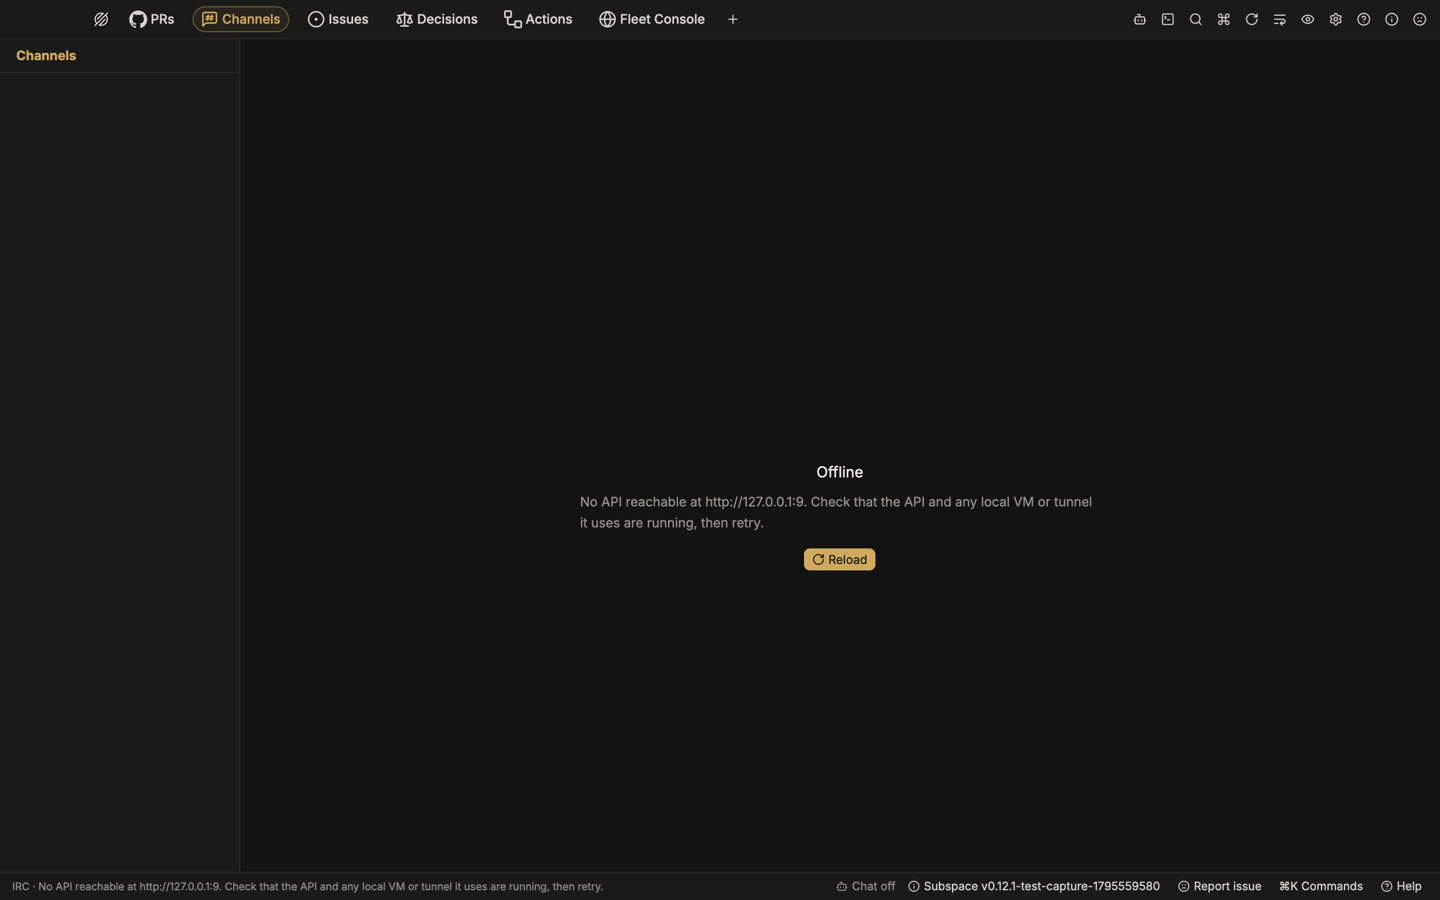
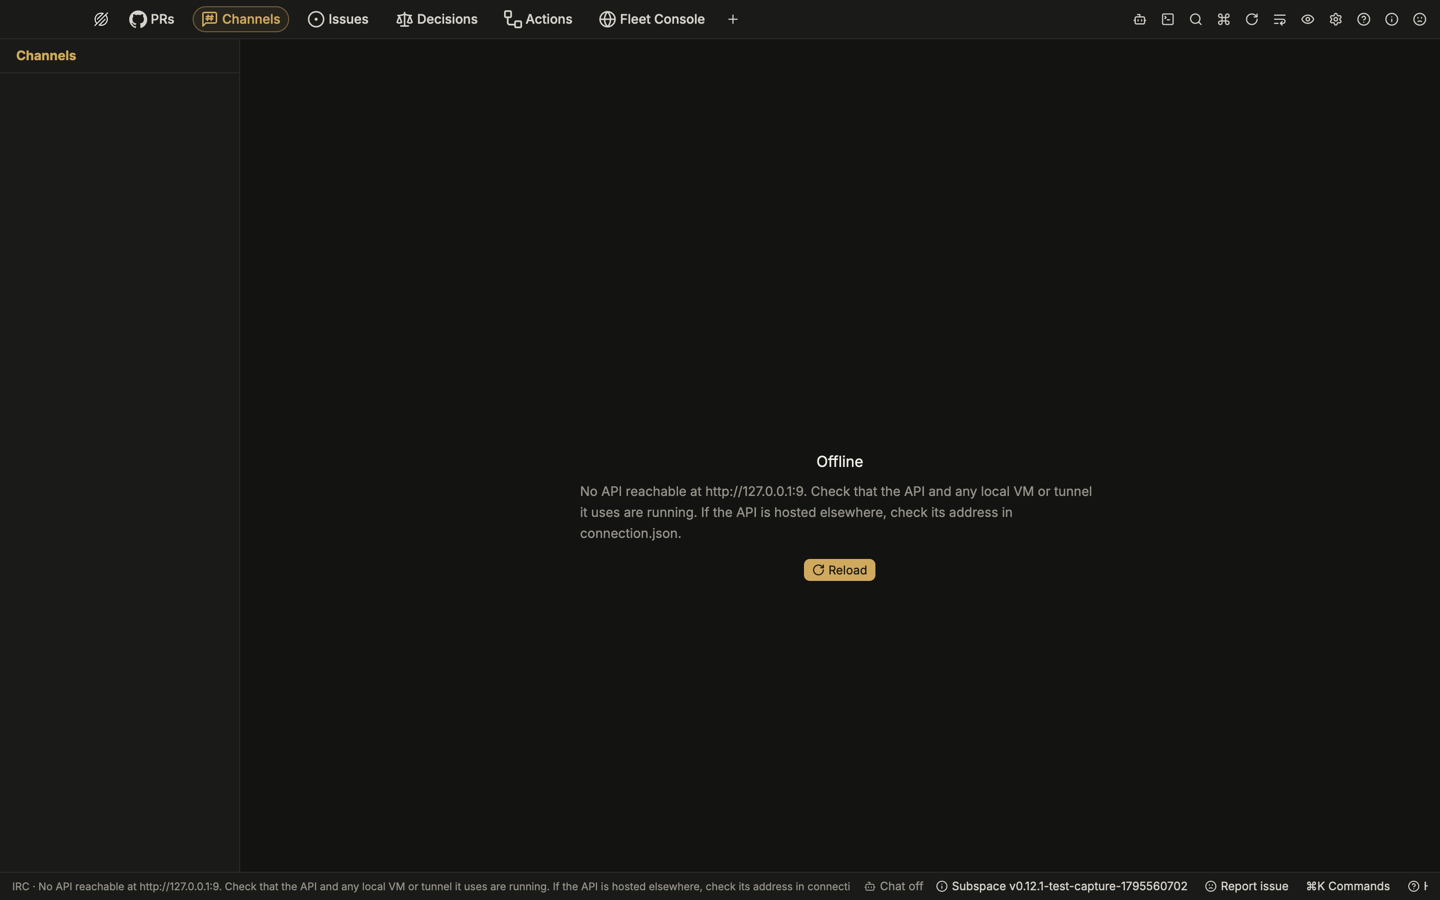
fix(desktop): preserve direct IRC addressing and recovery hints

Changed region(s): [[0.4062, 0.4978, 0.75, 0.6533], [0.375, 0.9644, 1.0, 0.9956]]

diff --git a/subspace-desktop/web-spaces/fleet-console/src/connection.js b/subspace-desktop/web-spaces/fleet-console/src/connection.js
@@ -167,13 +167,13 @@ export function connectionHelp(endpoint) {
   } catch {
     host = "";
   }
-  if (host === "localhost" || host === "[::1]" || /^127(?:\.\d+){3}$/.test(host)) {
+  if (host === "localhost" || host === "[::1]" || /^127(?:\.\d+){3}$/.test(host) || /^\[::ffff:7f[\da-f]{2}:[\da-f]{1,4}\]$/.test(host)) {
     return "Check that Stargate and any local VM or tunnel it uses are running.";
   }
   return "Check your network connection and connect to your organisation's private network if required. If you use Cloudflare One (WARP), refresh your Access session and complete any private-app sign-in.";
 }
 
-const CORS_HELP = " If the address opens in your browser but this Space still cannot connect, check Stargate's api.corsOrigins.";
+export const CORS_HELP = " If the address opens in your browser but this Space still cannot connect, check Stargate's api.corsOrigins.";
 
 /**
  * What the window says about a connection: a short pill label, its tone, and
@@ -198,7 +198,7 @@ export function describeConnection(state, { endpoint = "", now = 0 } = {}) {
         tone: "yellow",
         banner: {
           title: "Lost the event stream",
-          body: `The map shows the last data received. ${state.httpStatus ? `Stargate answered ${state.httpStatus}.` : connectionHelp(endpoint)}${retryText}`,
+          body: `The connection to ${where} dropped. The map shows the last data received. ${state.httpStatus ? `Stargate answered ${state.httpStatus}. Check the fleet VM and Stargate's logs.` : connectionHelp(endpoint)}${retryText}`,
           retry: true,
         },
       };

diff --git a/subspace-desktop/web-spaces/fleet-console/src/fleet-panel.js b/subspace-desktop/web-spaces/fleet-console/src/fleet-panel.js
@@ -4,7 +4,7 @@
 
 import { normalizeEndpoint } from "./api.js";
 import { cleanName } from "./fleet-store.js";
-import { connectionHelp, describeConnection, tokenProblem } from "./connection.js";
+import { CORS_HELP, connectionHelp, describeConnection, tokenProblem } from "./connection.js";
 import { fleetStatus } from "./scene/landscape.js";
 import { esc } from "./html.js";
 
@@ -44,10 +44,11 @@ export function describeTestError(error, endpoint) {
   if (status === 403) return "Stargate refused this network (403). Reach it over your private network: Tailscale, a Cloudflare Tunnel, or an SSH tunnel.";
   if (status === 404) return "No Fleet API at this address (404). Check the address and that Stargate's api block is enabled.";
   if (Number.isInteger(status)) return `Stargate answered ${status}. Check the fleet VM and Stargate's logs.`;
-  const problem = error?.name === "TimeoutError" || error?.name === "AbortError"
-    ? "Stargate did not answer within ten seconds."
-    : "Cannot reach this address.";
-  return `${problem} ${connectionHelp(endpoint)}`;
+  const help = connectionHelp(endpoint);
+  if (error?.name === "TimeoutError" || error?.name === "AbortError") {
+    return `Stargate did not answer within ten seconds. ${help}`;
+  }
+  return `Cannot reach this address. ${help}${CORS_HELP}`;
 }
 
 /** Words for a successful test connection. */

diff --git a/subspace-desktop/web-spaces/fleet-console/test/fleets.test.js b/subspace-desktop/web-spaces/fleet-console/test/fleets.test.js
@@ -216,7 +216,10 @@ test("test-connection words and the reasons adding is blocked", () => {
   assert.match(local, /ten seconds.*local VM or tunnel/);
   assert.doesNotMatch(local, /Cloudflare/);
   const remote = describeTestError(new TypeError("Load failed"), "https://fleet.example.com");
-  assert.match(remote, /private network.*refresh your Access session.*private-app sign-in/);
+  assert.match(remote, /private network.*refresh your Access session.*private-app sign-in.*corsOrigins/);
+  const mapped = describeTestError(new TypeError("Load failed"), "https://[::ffff:127.0.0.1]:8080");
+  assert.match(mapped, /local VM or tunnel.*corsOrigins/);
+  assert.doesNotMatch(mapped, /Cloudflare/);
   assert.equal(describeTestSuccess(sampleFleet().fleet), "Connected to “colonial-fleet”: 5 ships, Stargate 0.18.2.");
   assert.match(addBlocker({ present: false, capabilities: {}, allowed: {} }), /inside Subspace|running inside/);
   assert.match(addBlocker({ present: true, capabilities: { secretsSet: false }, allowed: {} }), /cannot store tokens/);

diff --git a/subspace-desktop/clients/subspace-api/src/backend.rs b/subspace-desktop/clients/subspace-api/src/backend.rs
@@ -91,7 +91,7 @@ fn unreachable_at(origin: Option<&url::Url>, service: &str) -> String {
         None => false,
     };
     let advice = if local {
-        "Check that the API and any local VM or tunnel it uses are running, then retry."
+        "Check that the API and any local VM or tunnel it uses are running. If the API is hosted elsewhere, check its address in connection.json."
     } else {
         "Check your network connection and connect to your organisation's private network if required. If you use Cloudflare One (WARP), refresh your Access session and complete any private-app sign-in, then retry."
     };
@@ -453,7 +453,7 @@ mod tests {
         let local = url::Url::parse("http://127.0.0.1:3000/api").unwrap();
         assert_eq!(
             super::unreachable_at(Some(&local), "Subspace API"),
-            "No API reachable at http://127.0.0.1:3000. Check that the API and any local VM or tunnel it uses are running, then retry."
+            "No API reachable at http://127.0.0.1:3000. Check that the API and any local VM or tunnel it uses are running. If the API is hosted elsewhere, check its address in connection.json."
         );
         let remote = url::Url::parse("https://api.example.com/api").unwrap();
         let help = super::unreachable_at(Some(&remote), "Subspace API");

diff --git a/subspace-desktop/spaces/irc/src/managed/source.rs b/subspace-desktop/spaces/irc/src/managed/source.rs
@@ -74,7 +74,10 @@ fn issue(binding: &Arc<Binding>, login: &ServerLogin, device: &str) -> Result<Is
 pub(crate) fn reason(unavailable: Unavailable) -> String {
     let service = subspace_api_client::service_name();
     match unavailable {
-        Unavailable::Api(Error::Network) => subspace_api_client::unreachable_message(),
+        Unavailable::Api(Error::Network) => format!(
+            "IRC sign-in is waiting for the API. {}",
+            subspace_api_client::unreachable_message()
+        ),
         Unavailable::Api(Error::SignInNeeded | Error::Forbidden) => {
             "Sign in under Settings › Account to connect".into()
         }
@@ -95,10 +98,9 @@ mod tests {
 
     #[test]
     fn a_refusal_reads_as_what_to_do_and_names_no_secret() {
-        assert_eq!(
-            reason(Unavailable::Api(Error::Network)),
-            subspace_api_client::unreachable_message()
-        );
+        let offline = reason(Unavailable::Api(Error::Network));
+        assert!(offline.starts_with("IRC sign-in is waiting for the API."));
+        assert!(offline.contains(&subspace_api_client::unreachable_message()));
         assert_eq!(
             reason(Unavailable::Api(Error::SignInNeeded)),
             "Sign in under Settings › Account to connect"

diff --git a/subspace-desktop/spaces/irc/src/thread_status/trust.rs b/subspace-desktop/spaces/irc/src/thread_status/trust.rs
@@ -107,17 +107,21 @@ fn addressee(request: &Line) -> Option<String> {
     }
 }
 
-/// An explicit @mention takes precedence over a possible bare address,
-/// such as the first word in "Thanks, @pilot". Preserve a leading @mention
-/// when a message also names someone else.
+/// A leading @mention or nick followed by a colon addresses the request
+/// directly. Otherwise an explicit @mention takes precedence over a comma,
+/// as in "Thanks, @pilot".
 fn channel_addressee(text: &str) -> Option<&str> {
     let first = text.split_whitespace().next()?;
     first
         .strip_prefix('@')
-        .map(|nick| nick.trim_end_matches([':', ',']))
+        .and_then(|rest| {
+            rest.split(|character| character != '@' && !is_nick_char(character))
+                .next()
+        })
         .filter(|nick| is_nick(nick))
+        .or_else(|| first.strip_suffix(':').filter(|nick| is_nick(nick)))
         .or_else(|| inline_addressee(text))
-        .or_else(|| first.strip_suffix([':', ',']).filter(|nick| is_nick(nick)))
+        .or_else(|| first.strip_suffix(',').filter(|nick| is_nick(nick)))
 }
 
 /// One request timeline cannot describe two different agents' turns.

diff --git a/subspace-desktop/spaces/irc/src/thread_status/tests/trust.rs b/subspace-desktop/spaces/irc/src/thread_status/tests/trust.rs
@@ -94,6 +94,8 @@ fn inline_mentions_fold_only_for_one_distinct_addressed_account() {
     for (text, folds) in [
         ("Could you check this, @ASTRA?", true),
         ("Thanks, @astra. Could you check this?", true),
+        ("@astra. Please ask @nova to confirm.", true),
+        ("astra: Please ask @nova to confirm.", true),
         ("Ask (@astra) or wait for @ASTRA.", true),
         ("Compare @astra and @nova.", false),
         ("Contact pilot@astra.example.", false),

diff --git a/subspace-desktop/docs/changes/irc-thread-status/spec.md b/subspace-desktop/docs/changes/irc-thread-status/spec.md
@@ -110,10 +110,9 @@ when the server vouches for its sender. Every condition must hold:
 1. **A request Channels knows.** The buffer holds the line whose `msgid` the
    notice's `+draft/reply` names, and it is a `PRIVMSG` or action (not a
    notice). In a private conversation it is our own message.
-2. **The ship that request asks.** A channel request can start with
-   `@nick` or contain one distinct `@nick` elsewhere. When there is no
-   unambiguous explicit mention, a leading `nick:` or `nick,` can also
-   address the request. In a private conversation it is the conversation's
+2. **The ship that request asks.** A leading `@nick` or `nick:` addresses the
+   channel request directly. Otherwise, one distinct `@nick` elsewhere takes
+   precedence over a leading `nick,`. In a private conversation it is the conversation's
    partner. A self-addressed request has no expected ship: its sender's nick
    is the addressed nick, or whose sender's `account` tag, when it has one,
    is the addressed nick (compared case-insensitively in ASCII). It is not a

diff --git a/subspace-desktop/docs/irc.md b/subspace-desktop/docs/irc.md
@@ -1156,9 +1156,9 @@ are in the [change record](changes/irc-thread-status/spec.md).
 - **Trust.** A notice folds only when it replies to a message or action
   this buffer holds (in a private conversation, our own), and its
   server-set `account` tag equals the nick that request asks, ignoring
-  ASCII case. In a channel, the request can start with `@nick` or mention
-  one distinct `@nick` anywhere in the message. Leading `nick:` and
-  `nick,` also work when there is no unambiguous explicit mention. In a
+  ASCII case. A channel request can start with `@nick` or `nick:`.
+  Otherwise, one distinct `@nick` elsewhere takes precedence over a leading
+  `nick,`. In a
   private conversation, the request asks its partner. A
   request whose sender's nick, or sender's `account` tag, is the addressed
   nick asks no one. Member lists play no part, so whoever holds the nick
